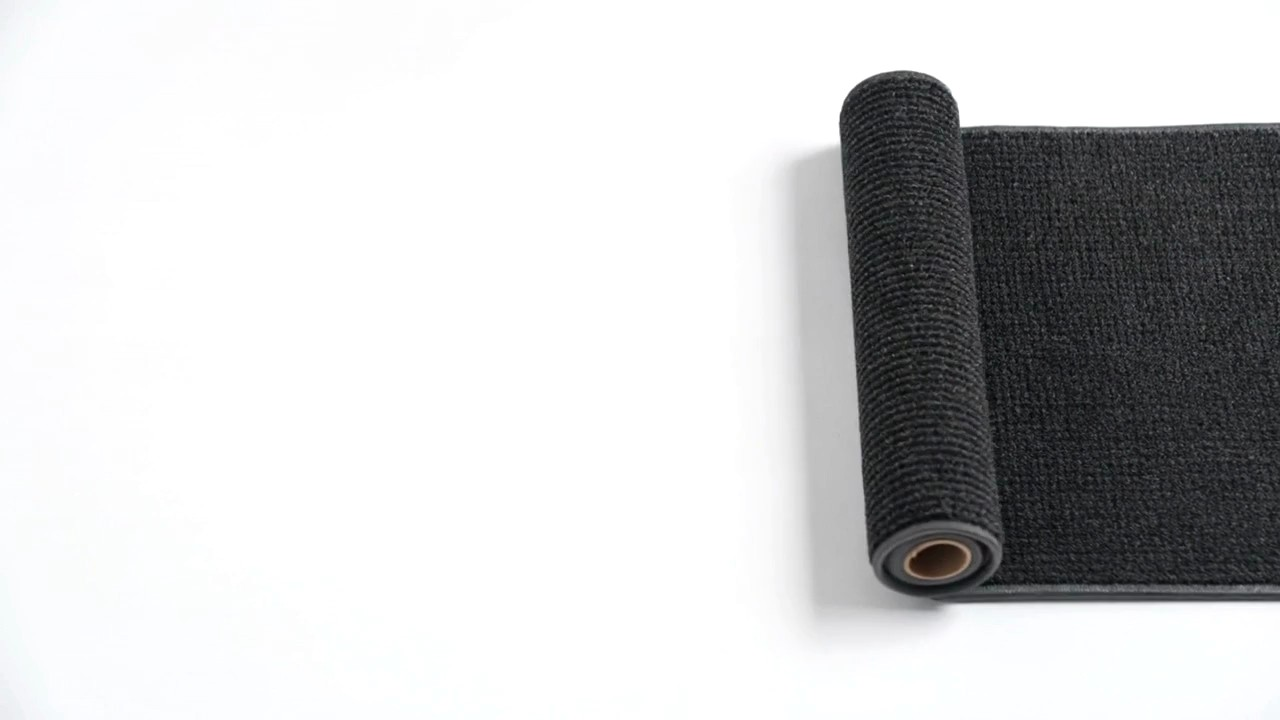
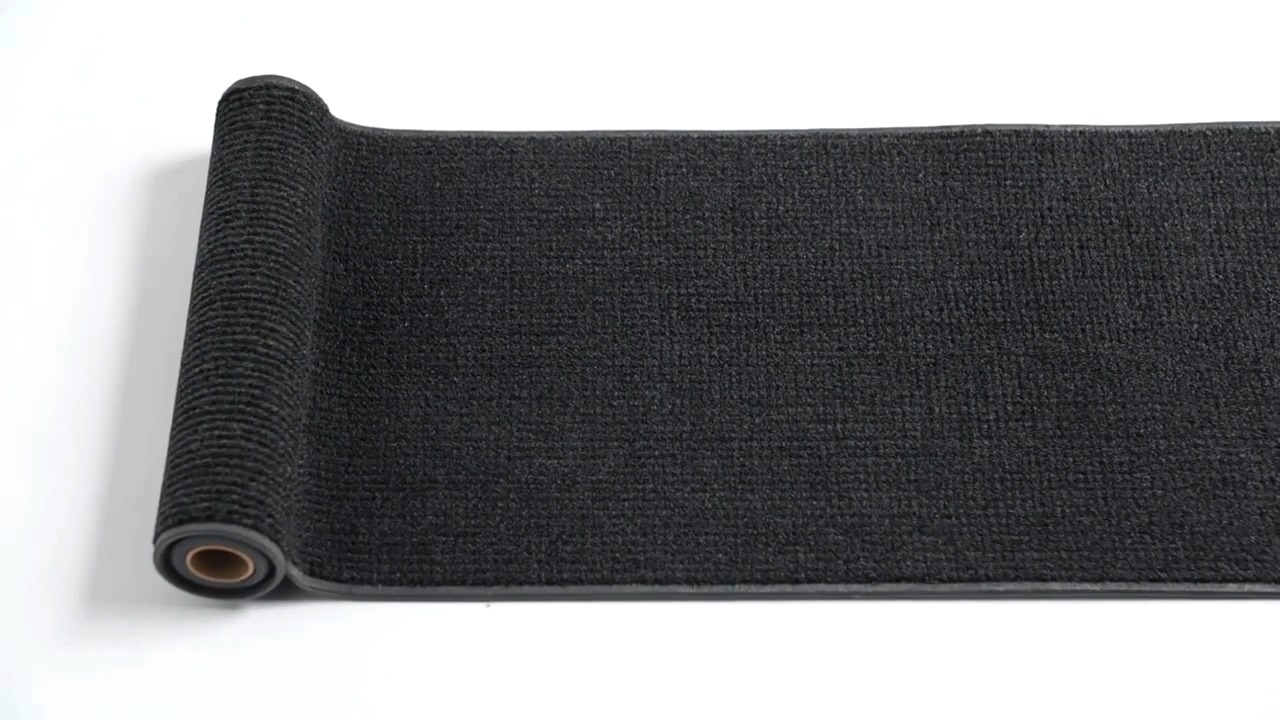
Use the hero video end frame as poster and give playback more time to start.

diff --git a/index.html b/index.html
@@ -231,7 +231,7 @@ h2.big{font-size:clamp(30px,4.6vw,50px); line-height:1.08; font-weight:600;}
 .hero .beat:nth-child(1){animation-delay:.08s;}
 .hero .beat:nth-child(2){animation-delay:.16s;}
 .hero .beat:nth-child(3){animation-delay:.24s;}
-/* Slow / failed video: poster only, hero copy + CTAs appear with no motion. */
+/* Failed / blocked video: poster only, hero copy + CTAs appear with no motion. */
 .hero.is-instant .hero-video{display:none !important;}
 .hero.is-instant .kicker,
 .hero.is-instant .beat{
@@ -1748,11 +1748,11 @@ html{scroll-behavior:smooth;}
   <!-- ================= HERO ================= -->
   <header class="hero">
     <div class="hero-media">
-      <img class="hero-poster" src="assets/hero-poster.jpg?v=4" alt=""
+      <img class="hero-poster" src="assets/hero-poster.jpg?v=6" alt=""
            width="1920" height="1080" fetchpriority="high" decoding="async" aria-hidden="true">
       <!-- src set from data-src only on good connections; otherwise poster-only. -->
-      <video class="hero-video" muted playsinline preload="none"
-             data-src="assets/hero.mp4?v=4" aria-hidden="true"></video>
+      <video class="hero-video" muted playsinline webkit-playsinline preload="none"
+             data-src="assets/hero.mp4?v=6" aria-hidden="true"></video>
     </div>
     <div class="wrap">
       <div class="hero-copy">
@@ -2887,8 +2887,9 @@ bookForm.addEventListener("submit", async function(e){
 
 /* ---------- Hero: poster-first; video only on good connections ----------
    Skip hero.mp4 when reduced-motion, Save-Data, or slow effectiveType.
-   If playback has not started within 2s: keep poster, snap hero copy/CTAs
-   with no fade. Otherwise wait for ended, then animate sub → CTAs. */
+   If the file errors or play() is blocked: keep poster, snap hero copy/CTAs.
+   Slow networks get a long grace period — do not abort just because first
+   paint took >2s (1.8MB mp4 often needs longer on mobile / 3g). */
 (function(){
   var hero = document.querySelector(".hero");
   var hv = document.querySelector(".hero-video");
@@ -2900,10 +2901,14 @@ bookForm.addEventListener("submit", async function(e){
   function showLinks(){ if (links) links.classList.add("in"); }
   function showSub(){ if (sub) sub.classList.add("in"); }
 
+  function clearFail(){
+    if (failTimer){ clearTimeout(failTimer); failTimer = null; }
+  }
+
   function finishAnimated(){
     if (settled) return;
     settled = true;
-    if (failTimer) clearTimeout(failTimer);
+    clearFail();
     showSub();
     setTimeout(showLinks, 700);
   }
@@ -2911,7 +2916,7 @@ bookForm.addEventListener("submit", async function(e){
   function finishInstant(){
     if (settled) return;
     settled = true;
-    if (failTimer) clearTimeout(failTimer);
+    clearFail();
     if (hv){
       try { hv.pause(); } catch (e) {}
       hv.removeAttribute("src");
@@ -2939,21 +2944,42 @@ bookForm.addEventListener("submit", async function(e){
     return;
   }
 
-  failTimer = setTimeout(finishInstant, 2000);
+  /* Absolute last resort if nothing ever loads — not a “slow first byte” cut. */
+  failTimer = setTimeout(function(){
+    if (!settled && hv.readyState < 2) finishInstant();
+  }, 12000);
 
+  hv.muted = true;
+  hv.defaultMuted = true;
+  hv.playsInline = true;
+  hv.setAttribute("playsinline", "");
+  hv.setAttribute("webkit-playsinline", "");
   hv.preload = "auto";
   hv.src = hv.dataset.src;
   hv.load();
+
   var reveal = function(){ if (!settled) hv.classList.add("in"); };
   var start = function(){
     if (settled) return;
+    clearFail();
+    /* Once bytes are here, give play() a short window; don't poster-bail mid-buffer. */
+    failTimer = setTimeout(function(){
+      if (!settled && hv.paused) finishInstant();
+    }, 4000);
     var p = hv.play();
-    if (p && p.catch) p.catch(function(){ finishInstant(); });
+    if (p && p.then){
+      p.then(function(){
+        clearFail();
+        reveal();
+      }).catch(function(){ finishInstant(); });
+    } else if (p && p.catch){
+      p.catch(function(){ finishInstant(); });
+    }
   };
   hv.addEventListener("loadeddata", start, { once:true });
   hv.addEventListener("playing", function(){
     if (settled) return;
-    if (failTimer) clearTimeout(failTimer);
+    clearFail();
     reveal();
   }, { once:true });
   hv.addEventListener("ended", finishAnimated, { once:true });
